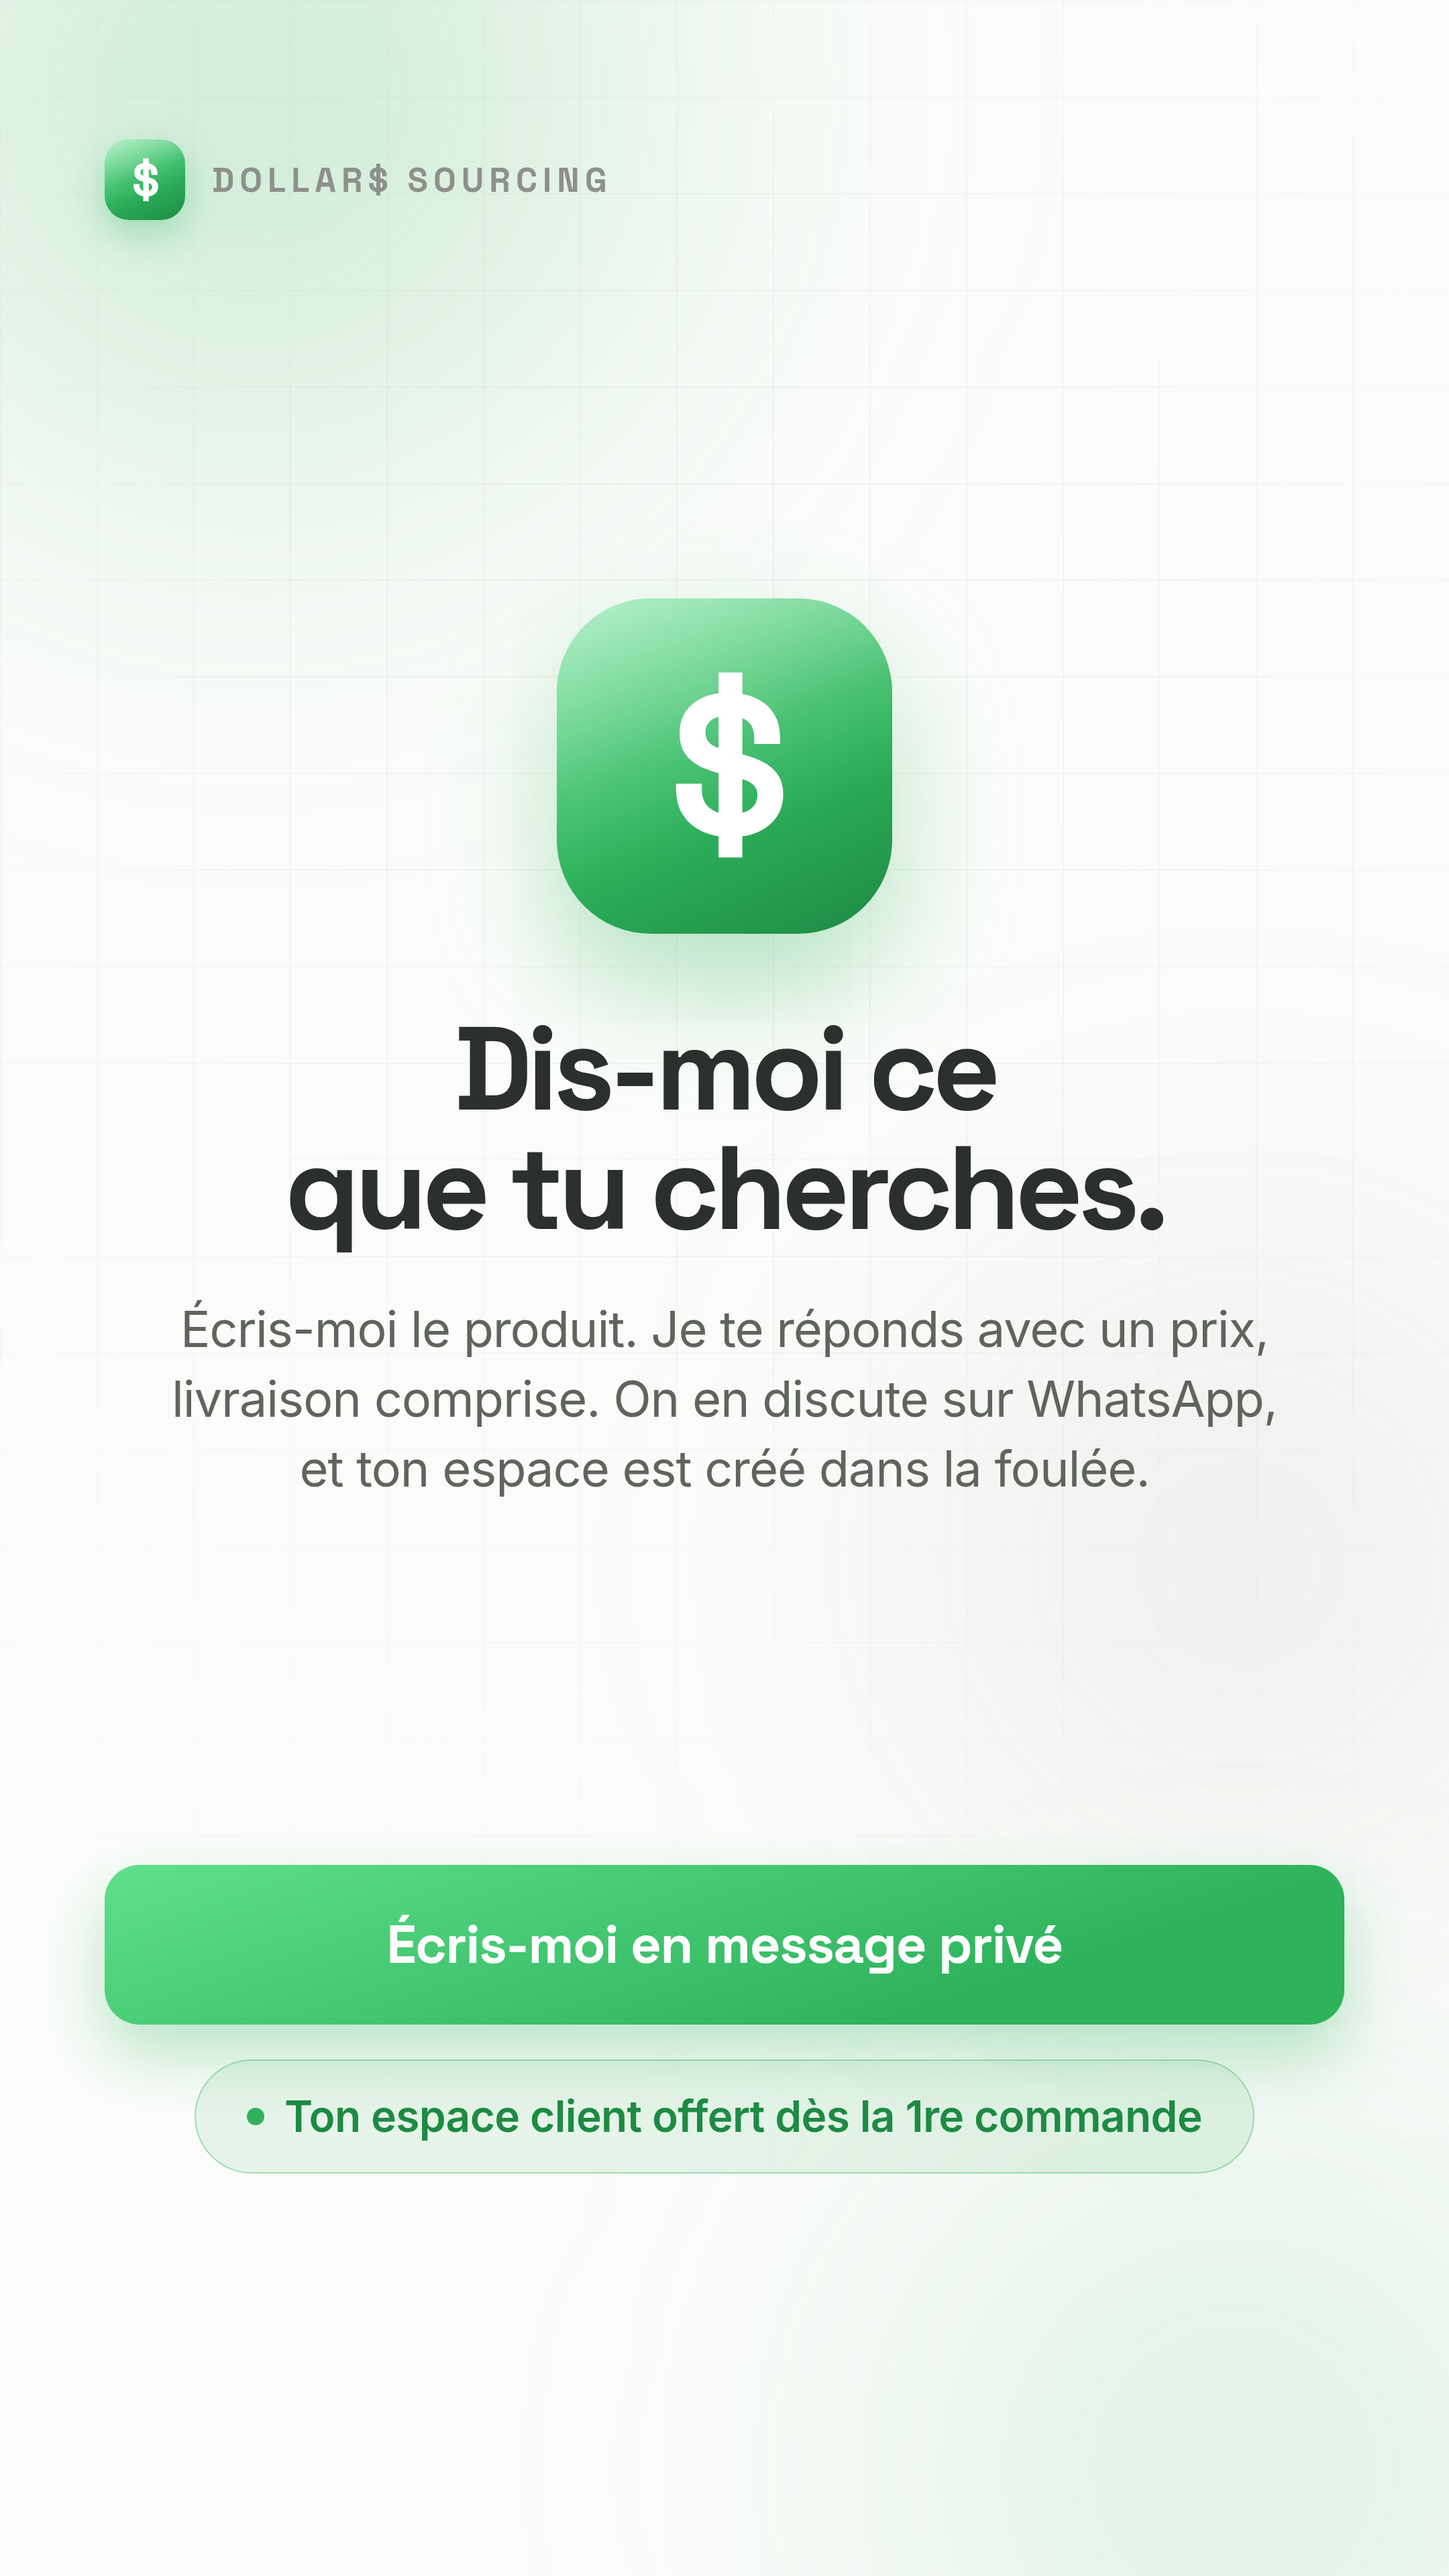
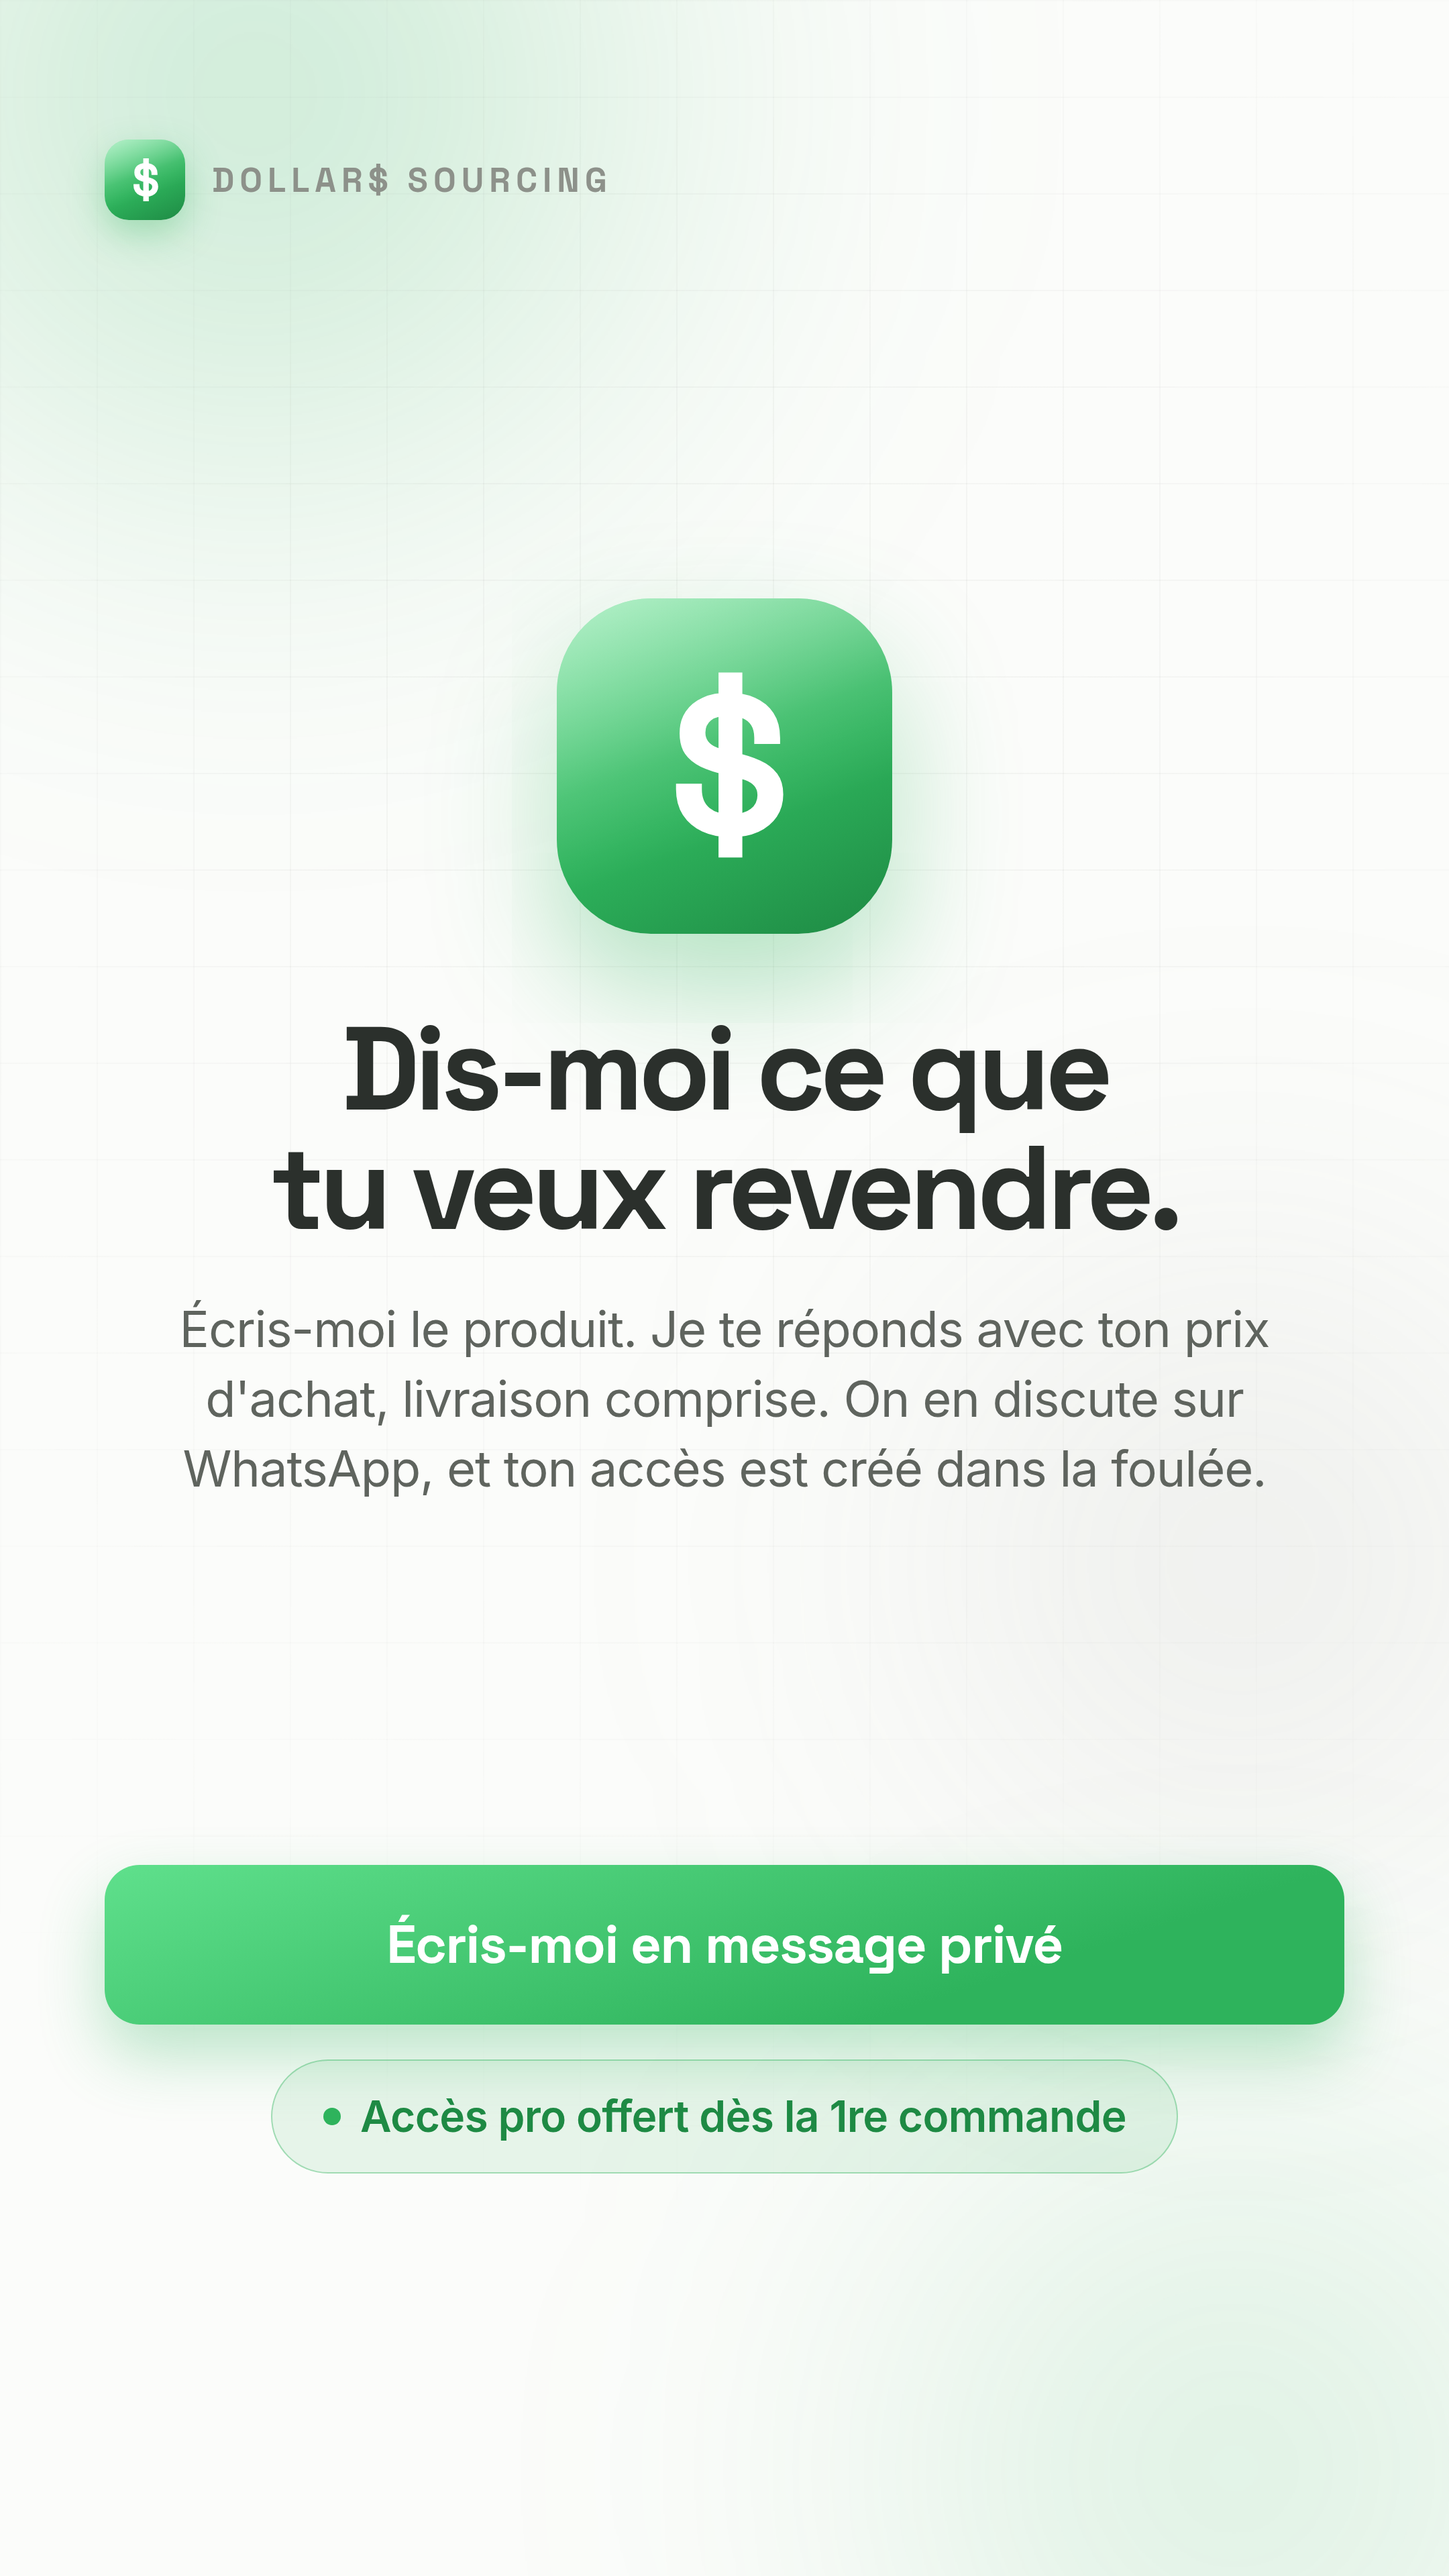
Le carrousel s'adresse à des revendeurs
Un revendeur n'achète pas un objet, il achète une marge. Le vocabulaire change
donc partout : « ton stock » et non « ton colis », « ton prix d'achat » et non
« ce que tu paies », « tu sais quand réapprovisionner » et non « tu n'as plus à
demander où ça en est ».

L'accroche devient « Tu revends. Moi je te fournis depuis la Chine », l'espace
devient un accès pro, et les Dollarz sont présentés pour ce qu'ils sont : un
barème dont les gros paliers sont faits pour ceux qui achètent en gros.

S'ajoute une illustration d'exemple — un carton avec sa référence au marqueur,
dessinée en CSS avec une vraie écriture manuscrite. Elle est là pour montrer ce
qu'on sait faire sans photo, et le README dit sa limite : une illustration ne
prouve rien, une vraie photo vaudrait dix fois mieux.

Claude-Session: https://claude.ai/code/session_01RowgEY4HLSTdcJJrXVSWNG

Changed region(s): [[0.1241, 0.375, 0.8685, 0.5938], [0.1861, 0.8125, 0.8375, 0.8438]]

diff --git a/marketing/README.md b/marketing/README.md
@@ -6,14 +6,14 @@ fichiers.
 
 | | Ce qu'elle dit | Ce qu'elle montre |
 |---|---|---|
-| `01-accroche` | « Tu commandes. Je m'occupe de tout le reste. » | la marque |
-| `02-espace` | le lien personnel + le code à 6 chiffres | l'écran de code, en vrai |
-| `03-demande` | la demande envoyée en deux clics, photo comprise | le formulaire du portail |
-| `04-prix` | un seul prix, livraison comprise | trois promesses |
-| `05-achat` | acheté sur place, emballé, confié au transitaire | trois promesses |
-| `06-suivi` | les six étapes suivies en direct | la frise et le bloc expédition |
-| `07-dollarz` | 1 € = 1 Dollarz, échangeable contre des remises | la boutique de coupons |
-| `08-cta` | « Dis-moi ce que tu cherches » | l'appel à écrire |
+| `01-accroche` | « Tu revends. Moi je te fournis depuis la Chine. » | la marque |
+| `02-espace` | l'accès pro + le code à 6 chiffres | l'écran de code, en vrai |
+| `03-demande` | dis-moi ce que tu veux, je trouve la source | le formulaire du portail |
+| `04-prix` | ton prix d'achat, livraison comprise | trois promesses |
+| `05-achat` | je suis en Chine, de quoi faire ×3 à la revente | trois promesses |
+| `06-suivi` | tu suis ton stock, tu sais quand réapprovisionner | la frise et le bloc expédition |
+| `07-dollarz` | plus tu commandes, plus tu gagnes | la boutique de coupons |
+| `08-cta` | « Dis-moi ce que tu veux revendre » | l'appel à écrire |
 
 ## Trois choix qui ne sont pas décoratifs
 
@@ -44,3 +44,14 @@ pas joignable partout — voir `CLAUDE.md`) :
 
 Les textes sont dans `make-lancement.mjs`, un tableau `slides` : une ligne par
 image, on lit et on modifie directement.
+
+## `00-exemple-carton` — une illustration, pas une photo
+
+Aucune photo réelle n'existe pour l'instant. Cette image montre ce qu'on sait
+faire à la place : **une scène dessinée en CSS**, à la palette, avec la
+référence tracée dans une vraie écriture manuscrite (`@fontsource/caveat`).
+
+Elle est honnête sur ce qu'elle est — un dessin — et c'est justement sa limite :
+**une illustration ne prouve rien.** Une photo d'un vrai carton avec un vrai
+marqueur vaudrait dix fois cette image. Elle se regénère avec
+`node make-illustration.mjs`.
